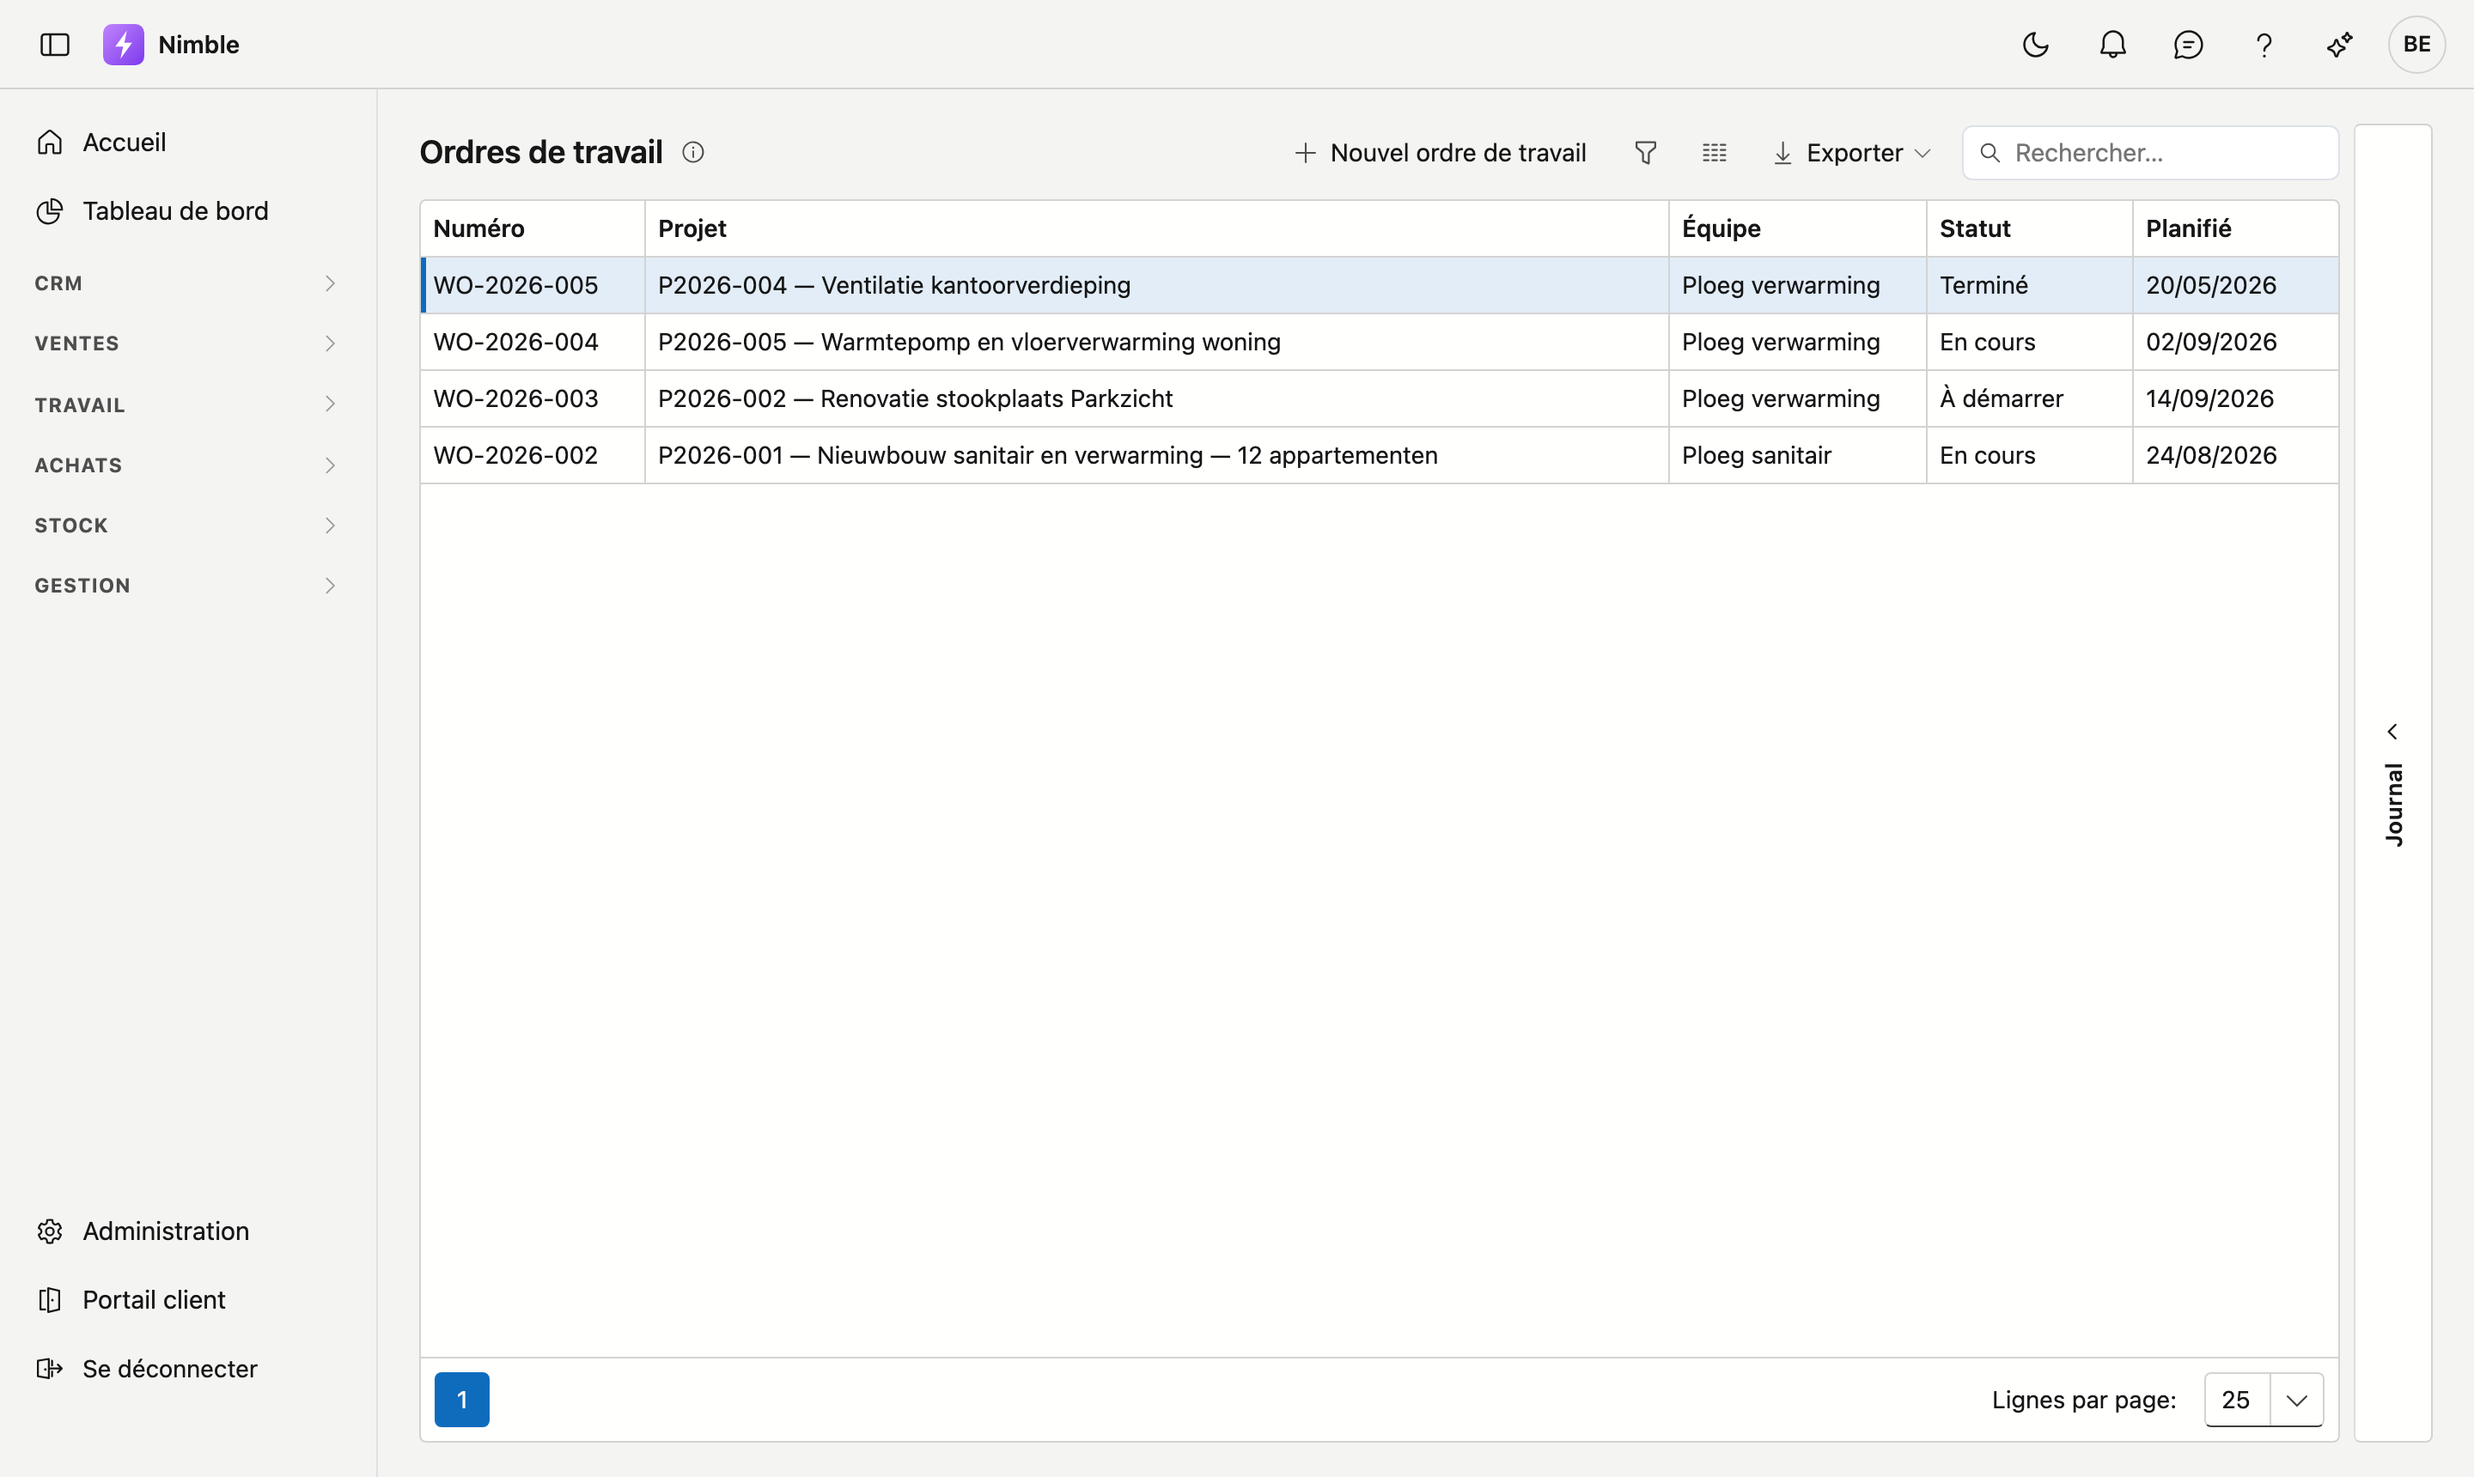
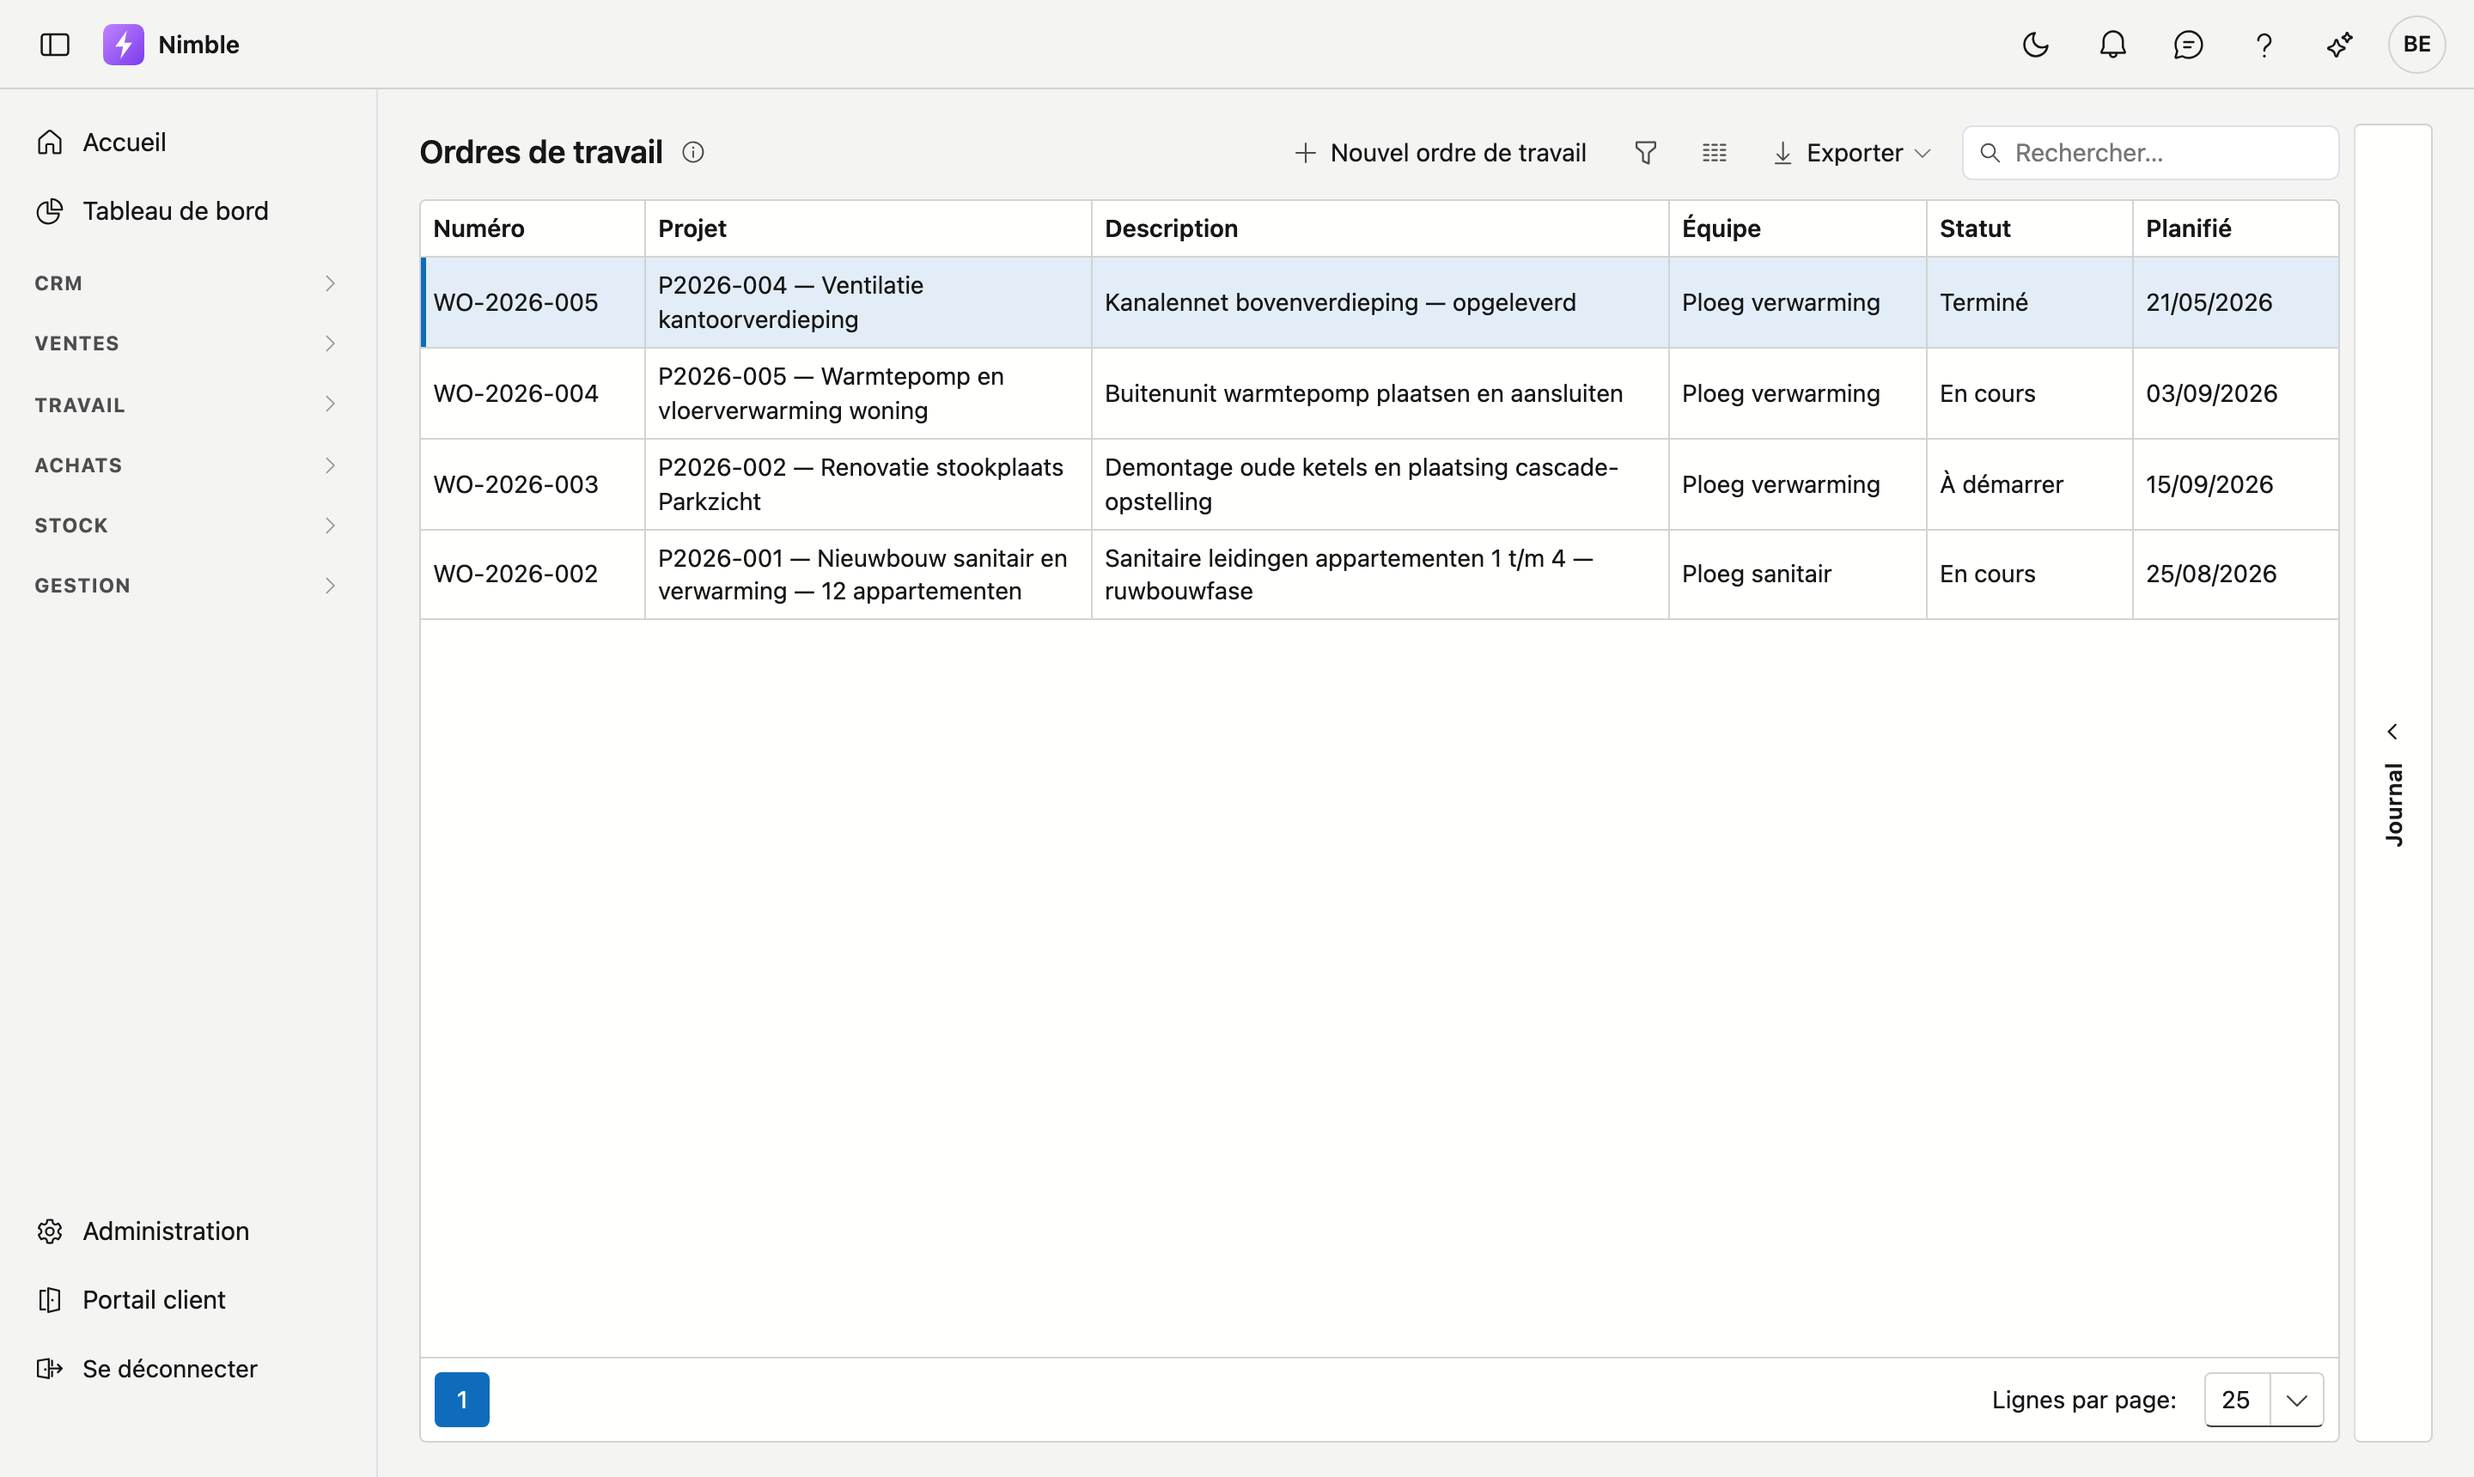
De werkorderlijst draagt een kolom Omschrijving
De handleiding beschreef vijf kolommen; er zijn er zes. Ook de afdruk hernomen,
NL en FR, uit tenant demo.

En een gat gedicht dat ik gisteren zelf gemaakt heb: de pagina zei nog dat
"Startklaar" verschijnt zodra de zeven punten aanstaan, zonder de voorwaarde die
er sinds vandaag bij hoort — die vermelding komt er enkel zolang de werkorder op
"Nog te starten" staat. Zodra de werf bezig of afgewerkt is, staan de zeven
vinkjes er als naslag. In beide talen bijgeschreven.

diff --git a/docs/work/work-orders.fr.md b/docs/work/work-orders.fr.md
@@ -12,12 +12,13 @@ Cliquez dans la barre latérale sur **Travail → Ordres de travail**.
 
 ## La liste
 
-![La liste Ordres de travail avec les colonnes Numéro, Projet, Équipe, Statut et Planifié ; quatre ordres de travail sur quatre projets différents, et à droite le tiroir Journal replié.](../images/werkorders-lijst-fr.png)
+![La liste Ordres de travail avec les colonnes Numéro, Projet, Description, Équipe, Statut et Planifié ; quatre ordres de travail sur quatre projets différents, et à droite le tiroir Journal replié.](../images/werkorders-lijst-fr.png)
 
 | Colonne | Ce que c'est |
 |---|---|
 | **Numéro** | La référence de l'ordre de travail, par exemple WO-2026-004 |
 | **Projet** | Le projet dont relève l'ordre de travail, avec son numéro et son nom |
+| **Description** | Ce qui doit être fait — c'est ce qui distingue deux ordres de travail sur un même projet |
 | **Équipe** | L'équipe qui exécute le chantier |
 | **Statut** | À démarrer · En cours · Terminé |
 | **Planifié** | Le jour prévu pour le travail |
@@ -79,6 +80,12 @@ Le deuxième onglet reprend sept points qui doivent être en ordre avant le dém
 Lorsque les sept sont cochés, l'ordre de travail porte en haut la mention **Prêt à démarrer** et l'écran
 indique que le chantier peut commencer. S'il en manque, le cadre nomme **lequel** — pas seulement qu'il en
 manque un.
+
+!!! note "Uniquement tant que le chantier doit encore démarrer"
+    La mention **Prêt à démarrer** et le message qui l'accompagne n'apparaissent que lorsque le statut est
+    **À démarrer** — c'est à ce moment-là que la question se pose. Dès que le chantier est **En cours** ou
+    **Terminé**, les sept cases restent affichées à titre de référence de ce qui était en ordre avant le
+    démarrage, et l'écran l'indique.
 
 !!! tip "Sept points, et aucune case unique « préparé »"
     Une seule case vous dirait *que* ce n'est pas en ordre, mais pas *ce* qui manque. C'est pourquoi les

diff --git a/docs/work/work-orders.md b/docs/work/work-orders.md
@@ -12,12 +12,13 @@ Klik in de zijbalk op **Werk → Werkorders**.
 
 ## De lijst
 
-![De lijst Werkorders met de kolommen Nummer, Project, Ploeg, Status en Gepland; vier werkorders op vier verschillende projecten, en rechts de dichtgeklapte lade Journaal.](../images/werkorders-lijst.png)
+![De lijst Werkorders met de kolommen Nummer, Project, Omschrijving, Ploeg, Status en Gepland; vier werkorders op vier verschillende projecten, en rechts de dichtgeklapte lade Journaal.](../images/werkorders-lijst.png)
 
 | Kolom | Wat het is |
 |---|---|
 | **Nummer** | Het kenmerk van de werkorder, bijvoorbeeld WO-2026-004 |
 | **Project** | Het project waar de werkorder onder valt, met nummer en naam |
+| **Omschrijving** | Wat er moet gebeuren — dit onderscheidt twee werkorders op hetzelfde project |
 | **Ploeg** | De ploeg die de werf doet |
 | **Status** | Nog te starten · Bezig · Afgewerkt |
 | **Gepland** | De dag waarop het werk voorzien is |
@@ -79,6 +80,12 @@ Op het tweede tabblad staan zeven punten die vóór de start in orde moeten zijn
 Staan alle zeven aan, dan krijgt de werkorder bovenaan de vermelding **Startklaar** en zegt het scherm dat
 de werf kan starten. Ontbreekt er iets, dan noemt het kader **welk** punt ontbreekt — niet alleen dát er
 iets ontbreekt.
+
+!!! note "Alleen zolang de werf nog moet starten"
+    De vermelding **Startklaar** en de melding erover verschijnen enkel wanneer de status op **Nog te
+    starten** staat — dan is het ook de vraag die u zich stelt. Zodra de werf **Bezig** of **Afgewerkt**
+    is, blijven de zeven vinkjes staan als naslag van wat er vóór de start in orde was, en zegt het scherm
+    dat.
 
 !!! tip "Zeven punten en geen enkel vinkje 'voorbereid'"
     Eén vinkje zou u vertellen dát het niet in orde is, maar niet wát er ontbreekt. Daarom staan de zeven
